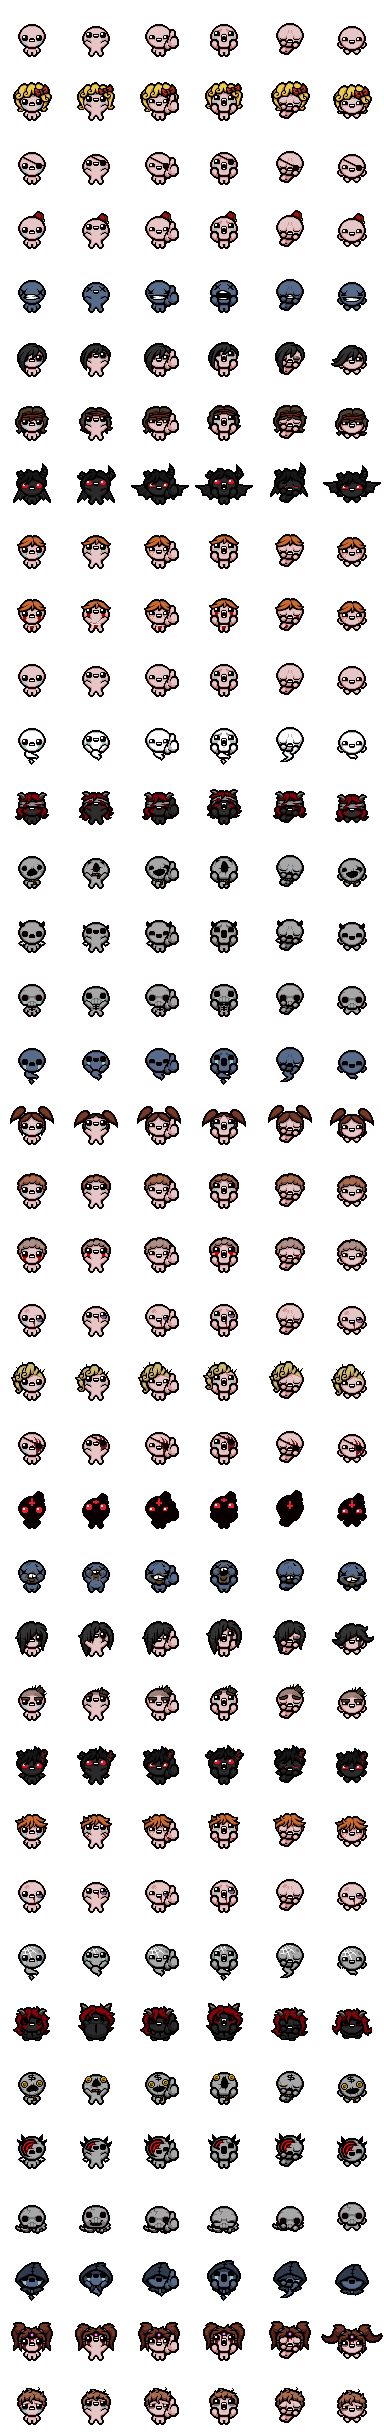
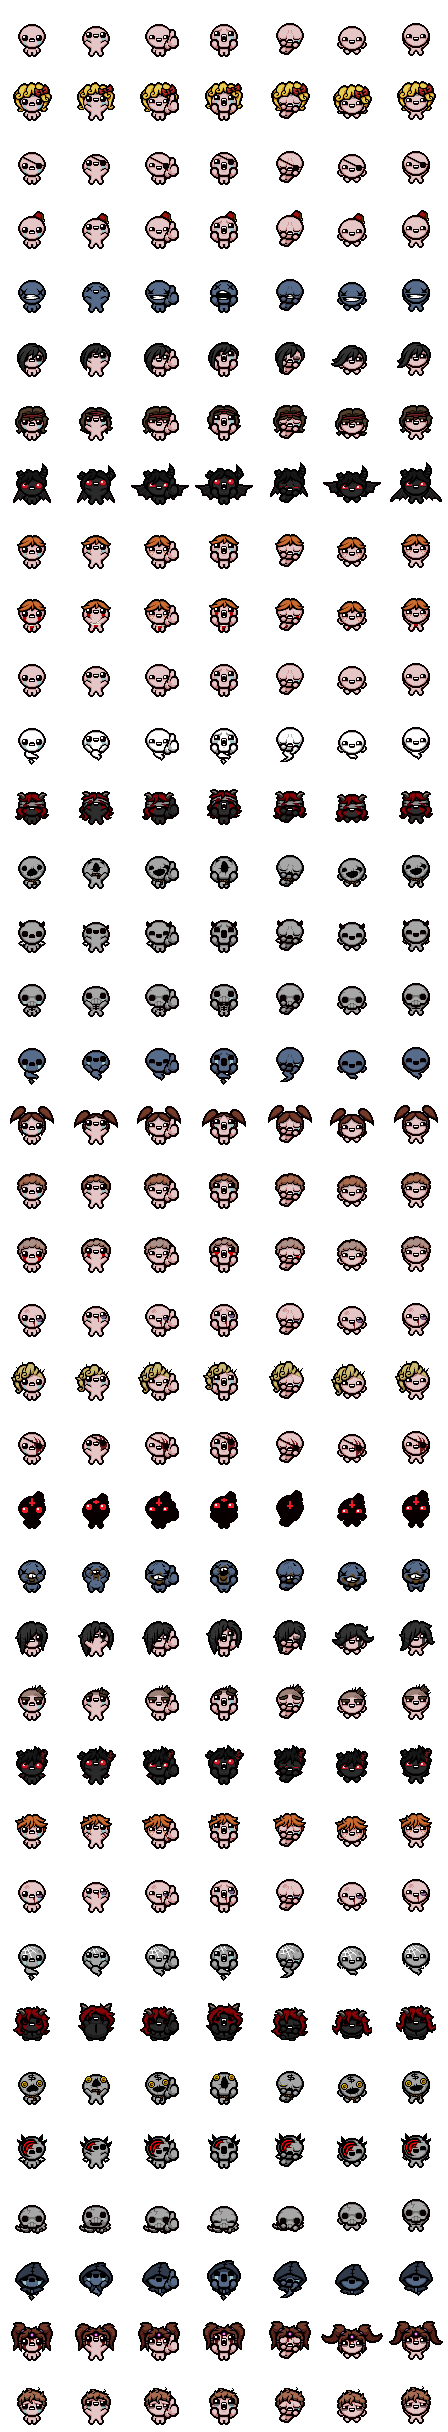
fix: distinguish crying from agony character poses with dedicated sprite atlas frame

Changed region(s): [[0.0312, 0.0, 1.0, 1.0]]

diff --git a/src/catalog/gameAssetsCatalog.test.ts b/src/catalog/gameAssetsCatalog.test.ts
@@ -47,27 +47,42 @@ describe('gameAssetsCatalog & SpriteCompositor.composeCharacterStack', () => {
       edenHairId: 21,
     });
 
+    const agonyStack = composeCharacterStack({
+      id: 'eden',
+      pose: 'agony',
+      edenHairId: 12,
+    });
+
     const idleHead = idleStack.find((l) => l.kind === 'head')!;
     const idleHair = idleStack.find((l) => l.kind === 'edenHair')!;
     const pickupHead = pickupStack.find((l) => l.kind === 'head')!;
     const pickupHair = pickupStack.find((l) => l.kind === 'edenHair')!;
+    const agonyHead = agonyStack.find((l) => l.kind === 'head')!;
+    const agonyHair = agonyStack.find((l) => l.kind === 'edenHair')!;
     const cryingHead = cryingStack.find((l) => l.kind === 'head')!;
     const cryingHair = cryingStack.find((l) => l.kind === 'edenHair')!;
 
-    // Verify pose-specific shifts across Front Idle, Happy Pickup, and Crying
+    // Verify pose-specific shifts across Front Idle, Happy Pickup, Agony, and Crying
     expect(idleHead.anchorOffset).toEqual({ x: 0, y: 0 });
     expect(idleHair.anchorOffset).toEqual({ x: 0, y: 6 });
 
     expect(pickupHead.anchorOffset).toEqual({ x: 0, y: 2 });
     expect(pickupHair.anchorOffset).toEqual({ x: 0, y: 8 });
 
-    expect(cryingHead.anchorOffset).toEqual({ x: 2, y: -1 });
-    expect(cryingHair.anchorOffset).toEqual({ x: 2, y: 5 });
+    expect(agonyHead.anchorOffset).toEqual({ x: 2, y: -1 });
+    expect(agonyHair.anchorOffset).toEqual({ x: 2, y: 5 });
 
-    // Verify hair remains locked at constant relative offset (0, +6) from head across all 3 poses
+    expect(cryingHead.anchorOffset).toEqual({ x: 0, y: -1 });
+    expect(cryingHair.anchorOffset).toEqual({ x: 0, y: 5 });
+
+    // Verify Crying and Agony are distinct poses with different sprite atlas source coordinates
+    expect(cryingHead.sx).not.toBe(agonyHead.sx);
+
+    // Verify hair remains locked at constant relative offset (0, +6) from head across all poses
     for (const [head, hair] of [
       [idleHead, idleHair],
       [pickupHead, pickupHair],
+      [agonyHead, agonyHair],
       [cryingHead, cryingHair],
     ]) {
       expect(hair.anchorOffset.x - head.anchorOffset.x).toBe(0);

diff --git a/src/workbench/CharacterDrawer.tsx b/src/workbench/CharacterDrawer.tsx
@@ -226,7 +226,7 @@ export function CharacterDrawer({
                 style={{
                   backgroundImage: 'url(/assets/characters/characters-atlas.png)',
                   backgroundPosition: `0px -${char.atlasRow * 32}px`,
-                  backgroundSize: `${6 * 32}px ${38 * 32}px`,
+                  backgroundSize: `${POSE_OPTIONS.length * 32}px ${38 * 32}px`,
                 }}
               />
               <span className="text-[10px] font-semibold leading-tight truncate w-full">

diff --git a/src/catalog/gameAssetsCatalog.ts b/src/catalog/gameAssetsCatalog.ts
@@ -208,9 +208,8 @@ export function listCharacters(variant?: 'normal' | 'tainted'): CharacterCatalog
 }
 
 export function getCharacterPoseById(poseId: string): CharacterPoseEntry {
-  const normalized = poseId === 'crying' ? 'agony' : poseId;
   const found = (charactersJson.poses as CharacterPoseEntry[]).find(
-    (p) => p.id === normalized
+    (p) => p.id === poseId
   );
   return found ?? (charactersJson.poses as CharacterPoseEntry[])[0];
 }
